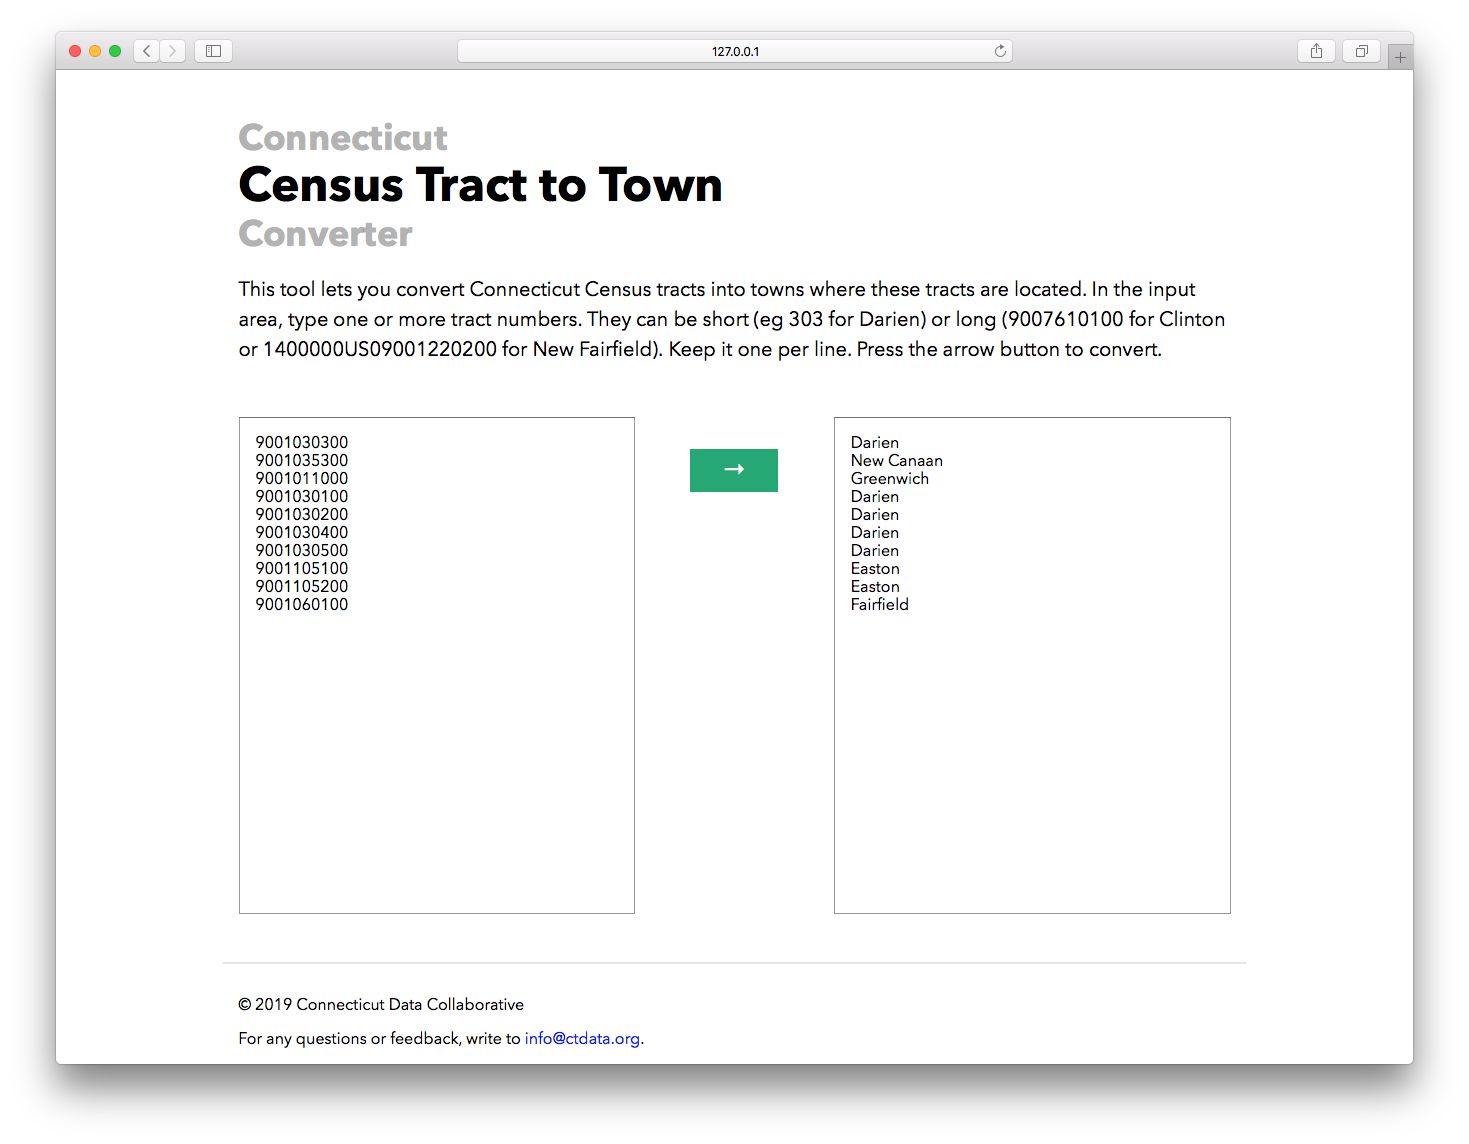
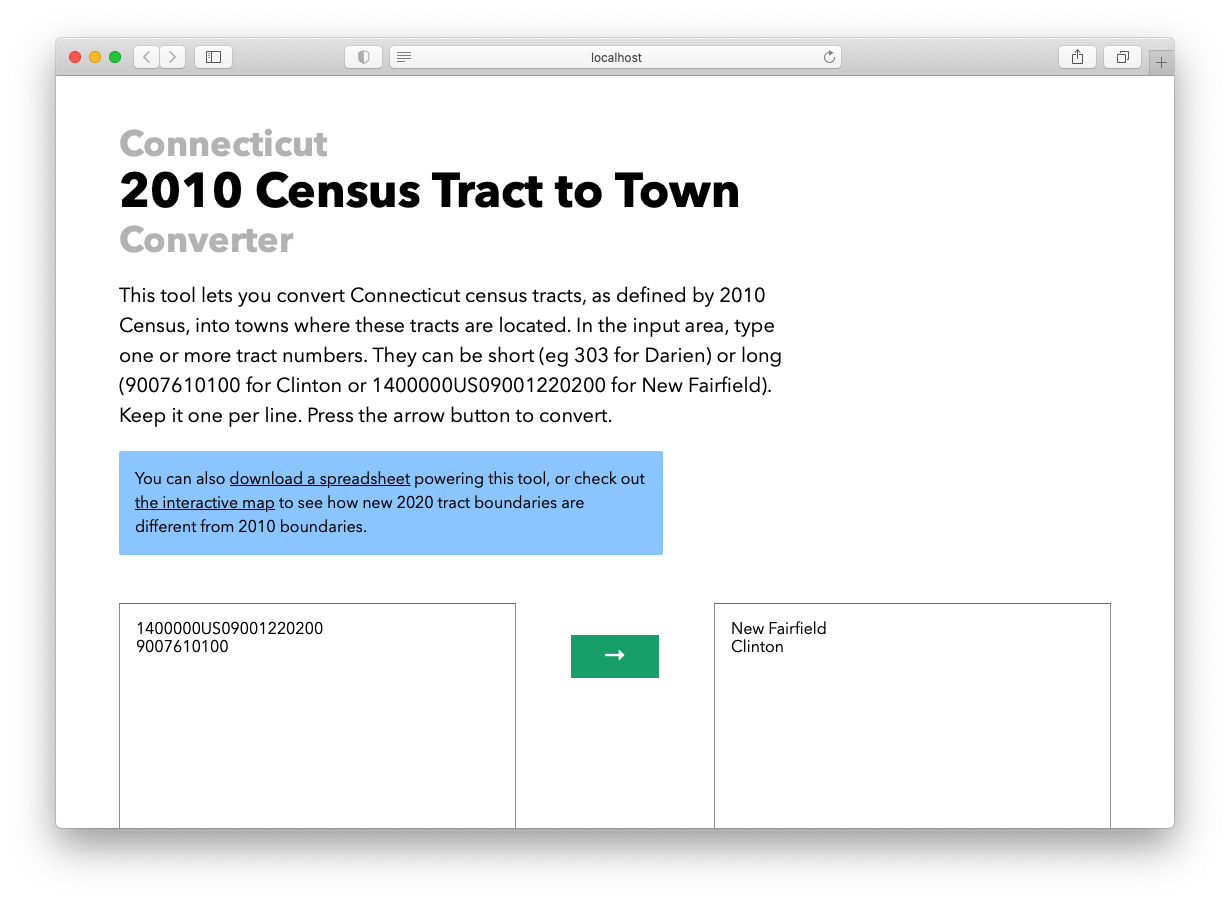
Add link to download; link 2010 vs 2020 blog post

diff --git a/index.html b/index.html
@@ -5,9 +5,10 @@
   <meta charset="utf-8">
   <meta name="viewport" content="width=device-width, initial-scale=1">
 
-  <title>Connecticut Census Tract to Town Converter by CTData</title>
+  <link rel="shortcut icon" type="image/x-icon" href="./favicon.png"/>
+  <title>Connecticut Census Tract to Town Converter by CTData Collaborative</title>
   <meta name="description" content="Connecticut Census Tract to Town">
-  <meta name="author" content="Connecticut Data Collaborative">
+  <meta name="author" content="CTData Collaborative">
 
   <link rel="stylesheet" href="https://unpkg.com/tachyons@4.10.0/css/tachyons.min.css"/>
   <script src="https://cdnjs.cloudflare.com/ajax/libs/jquery/3.4.1/jquery.min.js"></script>
@@ -18,14 +19,21 @@
   
     <header class="mw8 center mt4 pa3">
         <h2 class="f2 ma0 black-30">Connecticut</h2>
-        <h1 class="f1 ma0">Census Tract to Town</h1>
+        <h1 class="f1 ma0">2010 Census Tract to Town</h1>
         <h2 class="f2 ma0 black-30">Converter</h2>
 
-        <p class="f4 lh-copy">
-            This tool lets you convert Connecticut Census tracts into towns where these tracts are located. In the input area,
+        <p class="f4 lh-copy measure-wide">
+            This tool lets you convert Connecticut census tracts, as defined by 2010 Census, into
+            towns where these tracts are located. In the input area,
             type one or more tract numbers. They can be short (eg 303 for Darien) or long
             (9007610100 for Clinton or 1400000US09001220200 for New Fairfield).
             Keep it one per line. Press the arrow button to convert.
+        </p>
+
+        <p class="f5 lh-copy measure-wide pa3 bg-light-blue br1">
+          You can also <a href="data/Census_Tracts_with_Town_Names__2010_.csv" class="black dim underline" target="_blank">download a spreadsheet</a> powering this tool,
+          or check out <a href="https://www.ctdata.org/blog/2020-census-geography-connecticut" class="black link underline dim">the interactive map</a>
+          to see how new 2020 tract boundaries are different from 2010 boundaries.
         </p>
     </header>
 
@@ -38,9 +46,11 @@
     </div>
 
     <footer class="mw8 center pa3 mt4 bt bw1 b--black-10">
-        <p> &copy; 2019 Connecticut Data Collaborative </p>
+        <p> &copy; 2021 <a href="https://ctdata.org" class="blue link hover-orange">CTData Collaborative</a> </p>
         <p>
-            For any questions or feedback, write to <a href="mailto:info@ctdata.org?Subject=Census Tract to Town Tool" class="link hover-orange">info@ctdata.org</a>.
+            For any questions or feedback, write to
+            <a href="mailto:info@ctdata.org?Subject=Census Tract to Town Tool" class="blue link hover-orange">info@ctdata.org</a>.
+        </p>
     </footer>
 
     <script>
